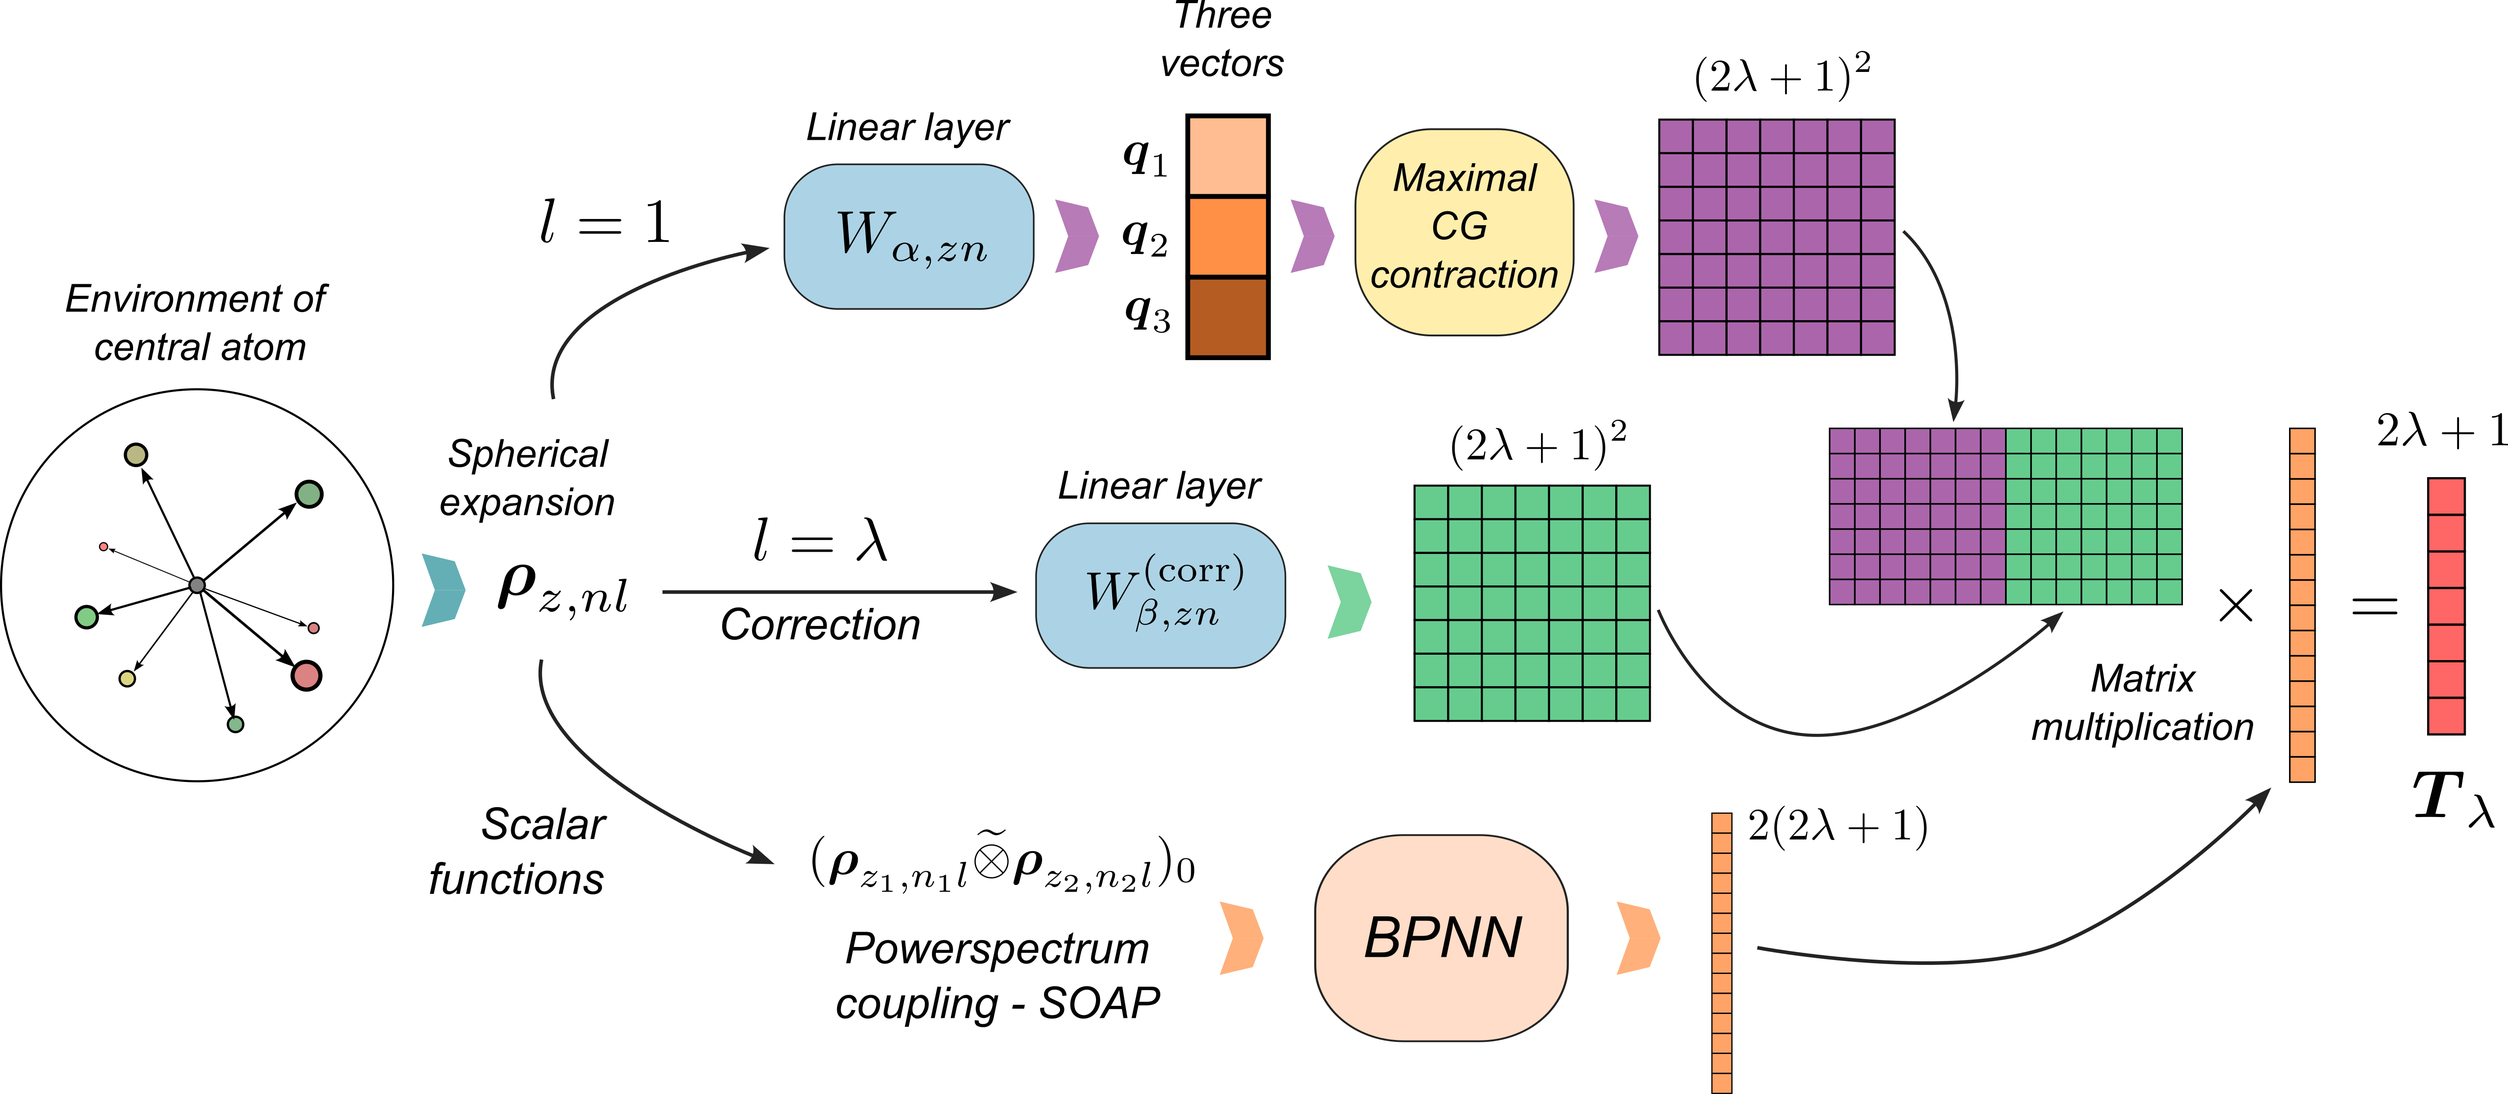
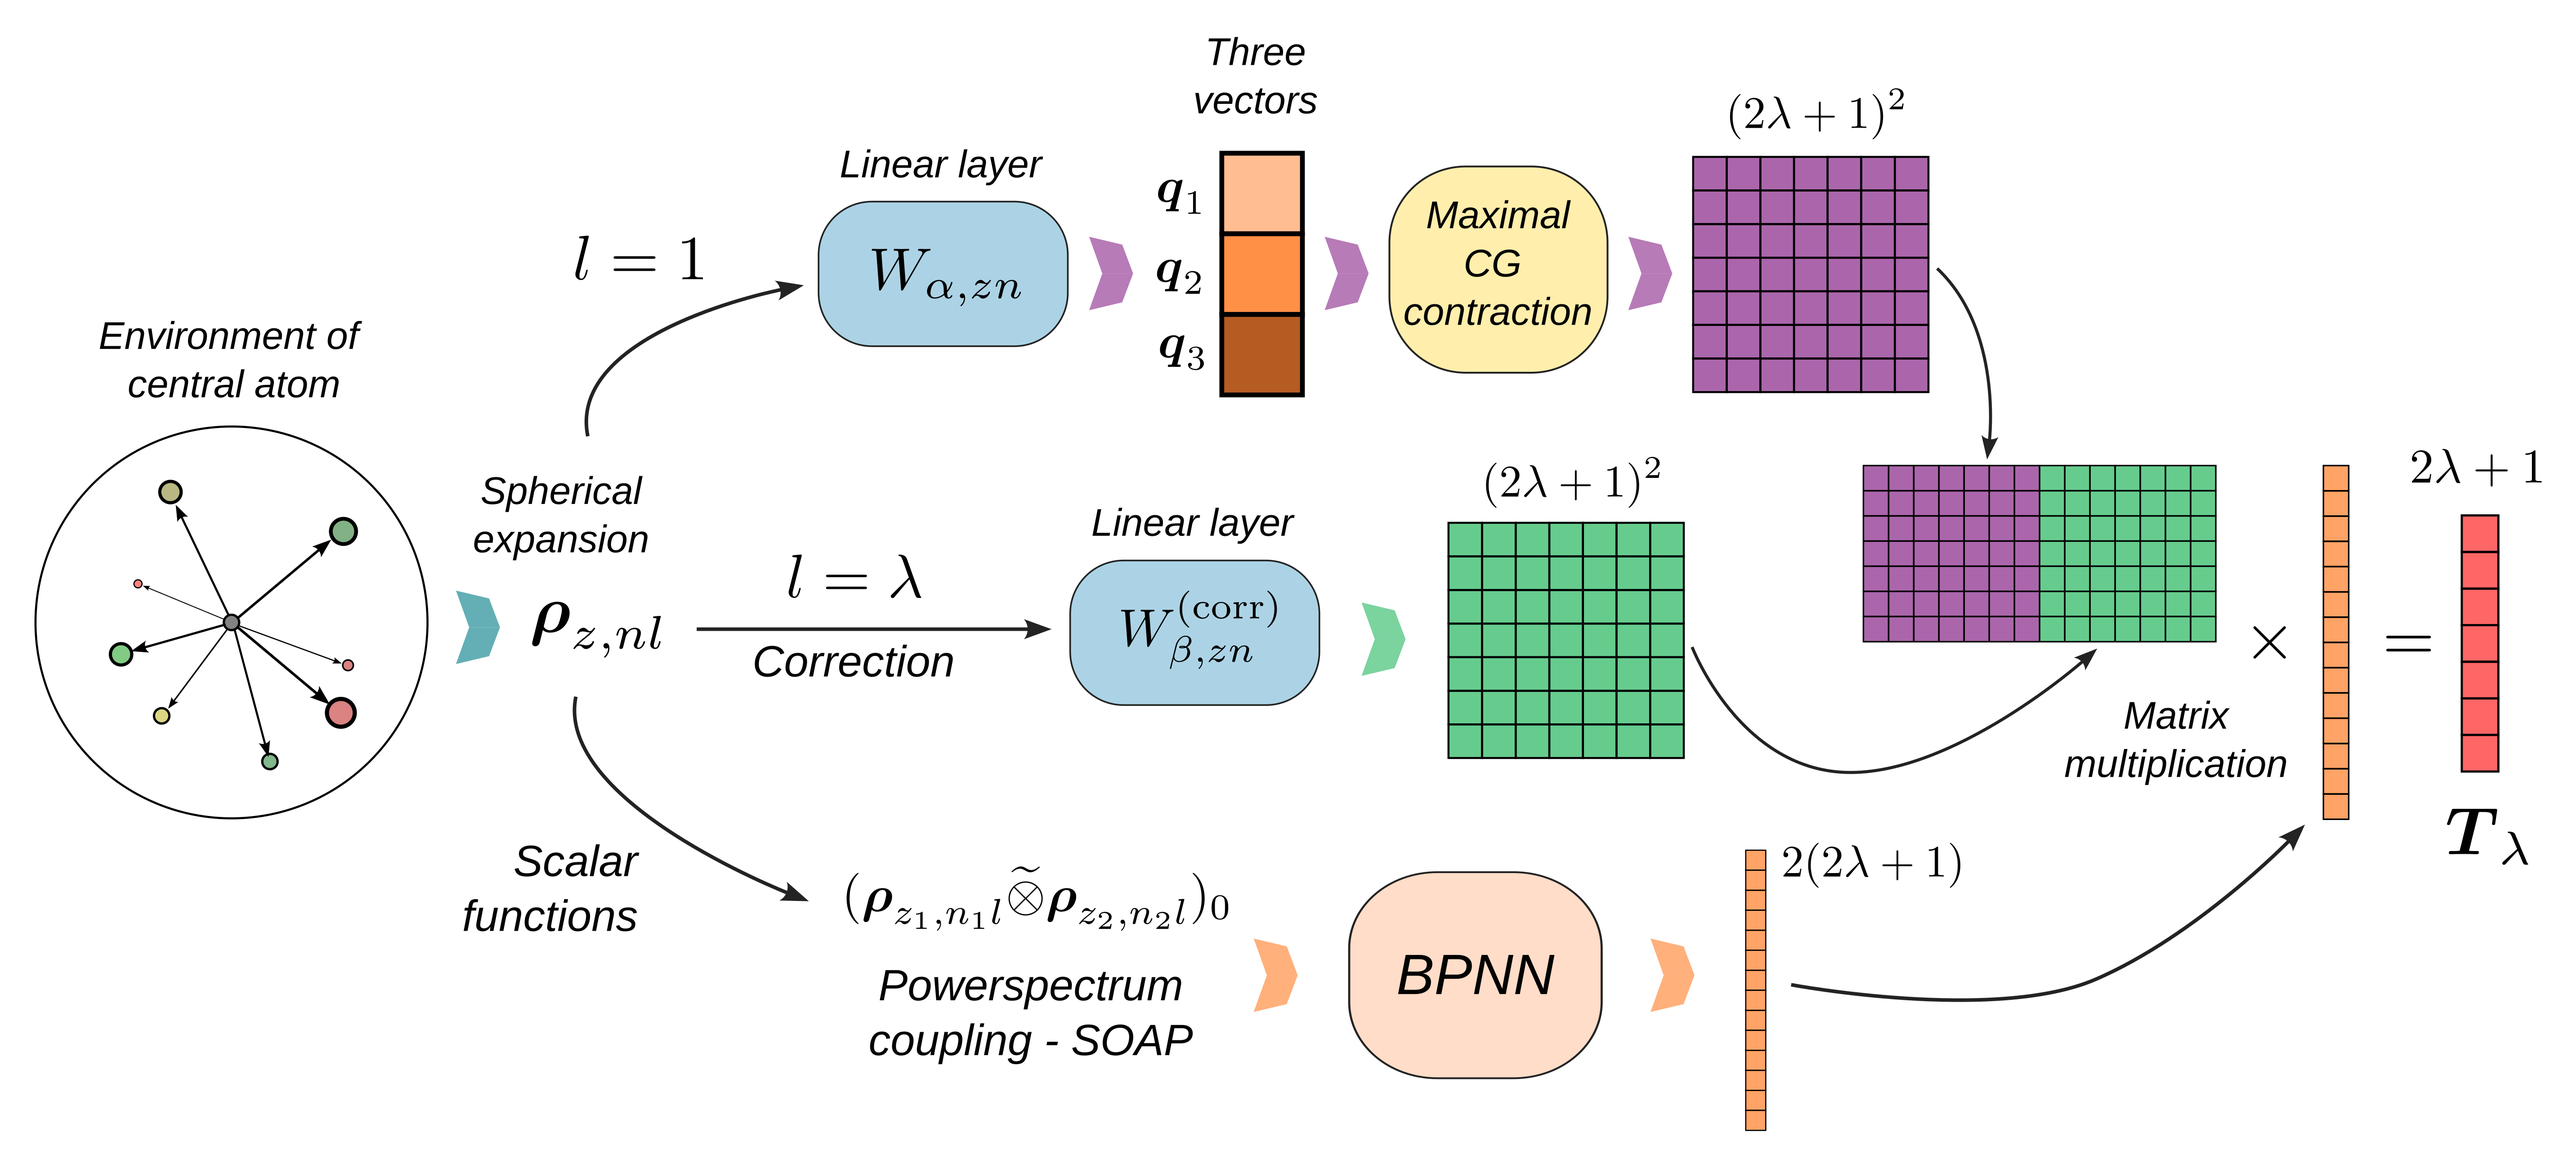
Update recipe

diff --git a/examples/learn-tensors-with-mcov/learn-tensors-with-mcov.py b/examples/learn-tensors-with-mcov/learn-tensors-with-mcov.py
@@ -12,7 +12,6 @@ and can then be used in an ASE calculator.
 """
 
 # %%
-# sphinx_gallery_thumbnail_number = 0
 
 # Core packages
 import subprocess
@@ -22,6 +21,7 @@ import ase.io
 
 # Simulation and visualization tools
 import chemiscope
+import matplotlib.image as mpimg
 import matplotlib.pyplot as plt
 import metatensor as mts
 import numpy as np
@@ -58,11 +58,11 @@ cs = chemiscope.show(
 
 cs
 
+
 # %%
-# Prepare the targets for training
-# --------------------------------
-# We extract the dipole moments and polarizability tensors from the extended XYZ file
-# and store them in a :class:`metatensor.torch.TensorMap` as Cartesian tensors.
+# Prepare the target tensors for training
+# ---------------------------------------
+# We first split the dataset into training, validation, and test sets.
 
 np.random.seed(0)
 
@@ -76,6 +76,39 @@ np.random.shuffle(indices)
 train_indices = indices[:n_train]
 val_indices = indices[n_train : n_train + n_val]
 test_indices = indices[n_train + n_val : n_train + n_val + n_test]
+
+# %%
+# For each split, we extract dipole moments and polarizability tensors from the extended
+# XYZ file and create a :class:`metatensor.torch.TensorMap` containing their Cartesian
+# components.
+# Since our machine-learning model uses spherical tensors, we convert Cartesian tensors
+# into their irreducible spherical form via Clebsch-Gordan coupling, using
+# :func:`featomic.clebsch_gordan.cartesian_to_spherical`. What is happening under the
+# hood is:
+#
+# 1. We reorder tensor components from the Cartesian :math:`x`, :math:`y`, :math:`z`,
+#    which correspond to the spherical :math:`m=1,-1,0`, to the standard ordering
+#    :math:`m=-1,0,1`.
+# 2. Dipoles moments (:math:`\lambda=1`) require no further operations. For
+#    polarizabilties we need to couple the resulting components:
+#
+#    .. math::
+#
+#      \alpha_{\lambda\mu} = \sum_{m_1,m_2} C^{\lambda \mu}_{m_1 m_2} \alpha_{m_1 m_2}
+#
+#    where :math:`C^{\lambda m}_{m_1 m_2}` are the Clebsch-Gordan
+#    coefficients.
+#    Since the polarizability is a symmetric rank-2 Cartesian tensor, only the
+#    :math:`\lambda=0,2` components are non-zero For example, the :math:`\lambda=0`
+#    component is proportional to the trace of the Cartesian tensor:
+#
+#    .. math::
+#
+#      \alpha_{\lambda=0} = -\frac{1}{\sqrt{3}} \left( \alpha_{xx} + \alpha_{yy} +
+#      \alpha_{zz} \right)
+#
+# After the conversion, we save the spherical tensors into ``metatensor``  sparse
+# format.
 
 for idx, filename in zip(
     [train_indices, val_indices, test_indices], ["training", "validation", "test"]
@@ -114,7 +147,7 @@ for idx, filename in zip(
         ],
     )
 
-    # Convert to spherical tensormaps
+    # Convert Cartesian to spherical tensormaps
     spherical_mu = mts.remove_dimension(
         cartesian_to_spherical(cartesian_mu, ["xyz"]), "keys", "_"
     )
@@ -130,24 +163,33 @@ for idx, filename in zip(
 # The :math:`\lambda`-MCoV model
 # ------------------------------
 #
-# .. figure:: architecture.png
-#    :alt: Schematic representation of the lambda-MCoV model
-#    :width: 1200px
+# Here is a schematic representation of the :math:`\lambda`-MCoV model which, in a
+# nutshell, allows us to learn a tensorial property of a system from a set of scalar
+# features used as linear expansion coefficients of a minimal set of basis tensors.
+
+fig, ax = plt.subplots(figsize=(5728 / 300, 2598 / 300), dpi=300)
+img = mpimg.imread("architecture.png")
+ax.imshow(img)
+ax.axis("off")
+fig.tight_layout()
+plt.show()
+
+# %%
 #
-#    Schematic representation of the :math:`\lambda`-MCoV model
+# We parametrize spherical tensors of order :math:`\lambda` as linear combinations
+# of a small, fixed set of **maximally coupled** basis tensors. Each basis tensor is
+# computed from three learned **vector** features, and each coefficient is predicted by
+# a **scalar** function of the local atomic environment. This enforces exact
+# equivariance under the action of the orthogonal group O(3), while relying only on
+# efficient scalar networks.
 #
-# We parametrize any spherical tensor of order :math:`\lambda` as a linear combination
-# of a small, fixed set of **maximally coupled** basis tensors computed from three
-# learned **vector** features, each modulated by a **scalar** function of the local
-# atomic environment. This enforces exact equivariance under the action of the
-# orthogonal group O(3), while relying only on efficient **scalar** networks to predict
-# the coefficients. The architecture is as follows:
+#  The architecture is composed as follows:
 #
 # 1. Local Spherical Expansion
 # """"""""""""""""""""""""""""
 #
-# Compute atomic-centered spherical expansion coefficients of the neighbor density of a
-# given atom :math:`i` in the local environment:
+# We compute atom-centered spherical expansion coefficients of the neighbor density
+# around atom :math:`i`:
 #
 # .. math::
 #
@@ -159,22 +201,20 @@ for idx, filename in zip(
 # 2. Learned Vector Basis
 # """""""""""""""""""""""
 #
-# From the :math:`l=1` expansions, form three global vectors
+# From the :math:`l=1` coefficients, we form three global vectors by a learnable linear
+# layer over species :math:`z` and radial channels :math:`n`:
 #
 # .. math::
 #
 #  \mathbf{q}_\alpha = \sum_{z,n} W_{\alpha,zn}\,\boldsymbol{\rho}_{z,n1}
 #
-# via a learnable linear layer over species :math:`z` and radial channels :math:`n`
-#
 # 3. Maximally Coupled Tensor Basis
 # """""""""""""""""""""""""""""""""
 #
-# Construct the :math:`2\lambda+1` independent components by **maximally coupling** the
-# three vectors :math:`\mathbf{q}_1,\mathbf{q}_2,\mathbf{q}_3`. The maximal coupling of
-# tensors is defined as the contraction of their harmonic components to the highest
-# allowed angular momentum. For example, the maximal coupling of :math:`\lambda` vectors
-# is
+# We build the :math:`2\lambda+1` independent components by **maximally coupling** the
+# three vectors :math:`\mathbf{q}_1,\mathbf{q}_2,\mathbf{q}_3`. Maximally coupled
+# tensors are defined by contracting their harmonic components to the highest total
+# angular momentum. For example, maximally coupling :math:`\lambda` vectors yields:
 #
 # .. math::
 #   (\underbrace{\mathbf{a}_1 \widetilde{\otimes} \ldots \widetilde{\otimes}
@@ -186,7 +226,7 @@ for idx, filename in zip(
 #   \mathcal{C}^{\lambda\mu}_{m_1\ldots m_\lambda}\big((\mathbf{a}_1)_{m_1} \cdot
 #   \ldots\cdot (\mathbf{a}_\lambda)_{m_\lambda}\big),
 #
-# with :math:`\mathcal{C}^{\lambda\mu}_{m_1\ldots m_\lambda}` a shorthand notation for
+# where :math:`\mathcal{C}^{\lambda\mu}_{m_1\ldots m_\lambda}` a shorthand notation for
 # the components of the tensor :math:`\mathcal{C}` obtained by contracting the
 # Clebsch-Gordan coefficients involved in the coupling.
 #
@@ -195,18 +235,18 @@ for idx, filename in zip(
 # .. math::
 #
 #   \mathbf{T}_{1}(\{\mathbf{r}_i\}) = \sum_{\alpha = 1}^3 f_{\alpha}
-#   (\{\mathbf{r}_i\})\,\mathbf{q}_{\alpha}.
+#   (\{\mathbf{r}_i\})\,\mathbf{q}_{\alpha},
 #
-# :math:`\lambda=2` components can be written as
+# and :math:`\lambda=2` components as
 #
 # .. math::
 #
 #   \mathbf{T}_{2}(\{\mathbf{r}_i\}) = \sum_{\alpha = 1}^2 f_\alpha(\{\mathbf{r}_i\})
 #   \mathbf{q}_\alpha^{\widetilde{\otimes} 2}\,\,+ \sum_{\substack{\alpha_1,\alpha_2=
 #   1\\\alpha_1<\alpha_2}}^{3} g_{\alpha_1\alpha_2}(\{\mathbf{r}_i\})
-#   \big(\mathbf{q}_{\alpha_1}\widetilde{\otimes} \mathbf{q}_{\alpha_2}\big)_{2},
+#   \big(\mathbf{q}_{\alpha_1}\widetilde{\otimes} \mathbf{q}_{\alpha_2}\big)_{2}.
 #
-# and, in general, :math:`\lambda>2`-tensors can be expressed as
+# More generally, for any :math:`\lambda>2` we have:
 #
 # .. math::
 #
@@ -221,15 +261,9 @@ for idx, filename in zip(
 # 4. :math:`\lambda`-Correction Term
 # """"""""""""""""""""""""""""""""""
 #
-# The above equations are, strictly speaking, only valid when the three vectors are
-# linearly independent and span the same space as the vectors naturally associated with
-# the input space of the spherical tensor (i.e., the distance vectors in the
-# neighborhood). In the simplified and practical case of the :math:`\mathbf{q}` vectors
-# defined by the spherical expansion, the model would fail for highly symmetric or
-# degenerate environments, since those vectors do not cover the whole space on which the
-# tensor is defined.
-# To handle this case, we add a simple correction using the
-# :math:`l=\lambda` spherical expansion to describe tensors with the same angular order:
+# Highly symmetric environments can lead to all-zero vector spherical expansion
+# components, which in turn would yield all-zero tensor features.
+# To correct this, we add a term based on the order :math:`\lambda` spherical expansion:
 #
 # .. math::
 #   \mathbf{T}_\lambda^{\rm corr}(\{\mathbf{r}_i\}) \;=\;
@@ -249,36 +283,36 @@ for idx, filename in zip(
 #   p_{z_1z_2,n_1 n_2,l} = \bigl(\boldsymbol{\rho}_{z_1,n_1 l} \widetilde{\otimes}
 #   \boldsymbol{\rho}_{z_2,n_2 l}\bigr)_0
 #
-# And then use a small, per-species multi-layer perceptron to map the powerspectrum
-# features to the full set of scalar coefficients :math:`f,g,h`.
+# and then apply a small, per-species multi-layer perceptron to map these features to
+# scalar coefficients :math:`f,g,h`.
 #
 # 6. Assembly and Global Output
 # """""""""""""""""""""""""""""
 #
-# We multiply each scalar coefficient by its corresponding maximally coupled tensor and
-# sum:
+# Finally, we assemble the tensor:
 #
 # .. math::
 #
-#   T^\lambda(\{r_i\}) = \sum_{m=1}^{2\lambda+1} s_m\,B^\lambda_m(q_1,q_2,q_3) +
-#   T_\lambda^{\rm corr}(\{r_i\}),
+#   \mathbf{T}_\lambda(\{\mathbf{r}_i\}) = \sum_{\beta=1}^{2\lambda+1}
+#   s_\beta(\{\mathbf{r}_i\}) \, \mathbf{B}^\lambda_\beta
+#   (\mathbf{q}_1,\mathbf{q}_2,\mathbf{q}_3) + \mathbf{T}_\lambda^{\mathrm{corr}}
+#   (\{\mathbf{r}_i\}),
 #
-# where :math:`B^\lambda_m` are the basis tensors. For global properties, sum the
-# per-atom contributions
+# where :math:`\mathbf{B}^\lambda_\beta` is a shorthand for the basis tensors and
+# :math:`s_\beta` for the scalar coefficients. For global properties we sum over all
+# atoms.
 
 # %%
 # Training and evaluation of the model
 # ^^^^^^^^^^^^^^^^^^^^^^^^^^^^^^^^^^^^
 #
-# We use the ``metatrain`` package to train the model. The training is performed
-# using the ``metatrain`` command line interface. The command to start the training
-# is:
+# We train the model with the ``metatrain`` package via its command-line interface.
+# To start training, we run
 #
 # .. code-block:: shell
 #    mtt train data/options.yaml
 #
-# The options file contains information about the model architecture and the
-# training parameters:
+# The options file specifies the model architecture and the training parameters:
 #
 # .. literalinclude:: data/options.yaml
 #    :language: yaml
@@ -294,8 +328,8 @@ subprocess.run(
     check=True,
 )
 # %%
-# We can visualize the training and validation errors as functions of the epoch.
-# The training log is stored in csv format in the `outputs` folder.
+# We visualize training and validation losses as functions of the epoch.
+# The training log is stored in CSV format in the `outputs` directory.
 
 train_log = np.genfromtxt(
     glob("outputs/*/*/train.csv")[-1],
@@ -313,15 +347,13 @@ plt.legend()
 plt.title("Training and validation loss")
 
 # %%
-# We can evaluate the model on the test set using again the ``metatrain`` command line
-# interface. The command to evaluate the model is
-# is:
+# We evaluate the model on the test set using the ``metatrain`` command-line interface:
 #
 # .. code-block:: shell
 #    mtt eval model.pt eval.yaml -e extensions -o test_results.mts
 #
-# The evaluation file contains information about the structures to evaluate and the
-# target quantities:
+# The evaluation YAML file contains lists the structures and corresponding reference
+# quantities for the evaluation:
 #
 # .. literalinclude:: eval.yaml
 #    :language: yaml
@@ -343,11 +375,12 @@ subprocess.run(
 )
 
 # %%
-# We can now load the predictions and the targets from the test set and compare them.
-# The predictions are stored in the ``test_results_mtt::dipole.mts`` and
-# ``test_results_mtt::polarizability.mts`` files and the targets are in
-# ``test_dipoles.mts`` and ``test_polarizabilities.mts`` files. We can load them using
-# the ``metatensor.load`` function.
+# We load the test set predictions and targets from disk and prepare them for
+# comparison.
+# Predictions are in ``test_results_mtt::dipole.mts`` and
+# ``test_results_mtt::polarizability.mts``. Targets are in ``test_dipoles.mts`` and
+# ``test_polarizabilities.mts``. We can load them using
+# the :func:`metatensor.load` function.
 
 prediction_test = {
     "dipole": mts.load("test_results_mtt::dipole.mts"),
@@ -363,7 +396,9 @@ test_set_molecules = ase.io.read("test_set.xyz", ":")
 natm = np.array([len(mol) for mol in test_set_molecules])
 
 # %%
-# We can now compare the predictions and the targets by visualizing a parity plot
+# We create parity plots comparing predicted and target values for each target quantity
+# and for each :math:`\lambda` component.
+
 color_per_lambda = {0: "C0", 1: "C1", 2: "C2"}
 
 fig, axes = plt.subplots(1, 2)
